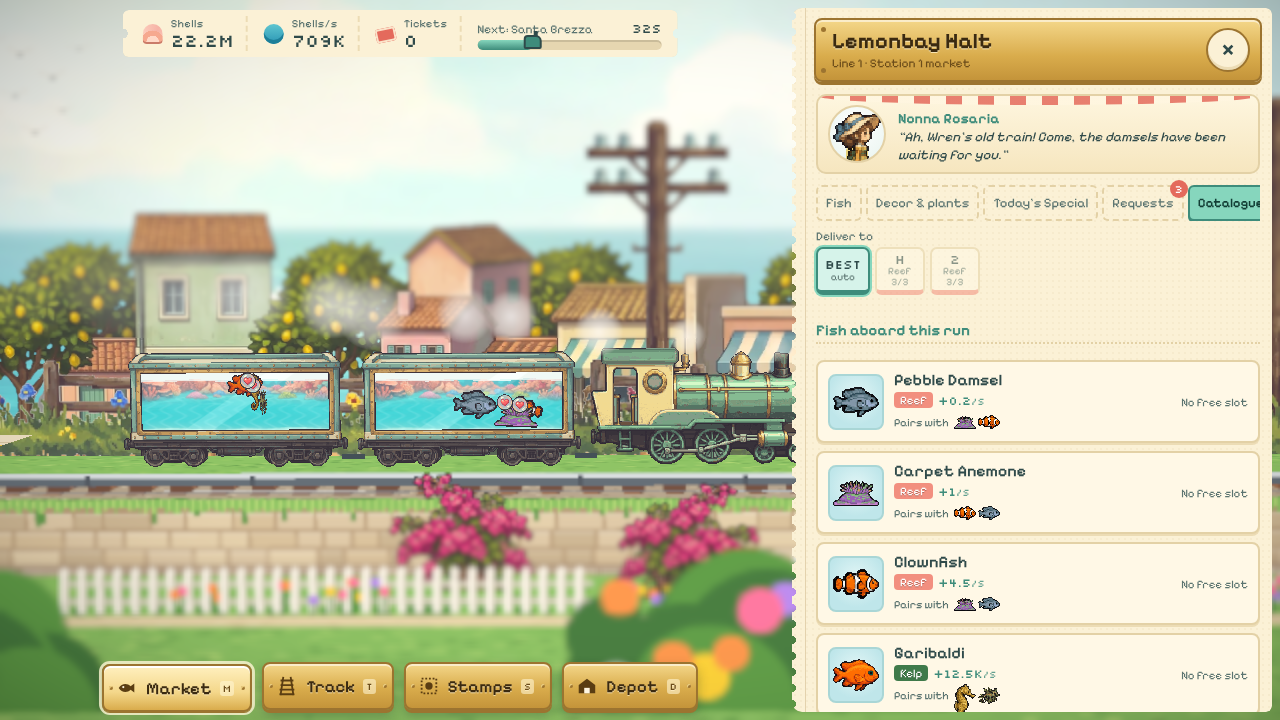
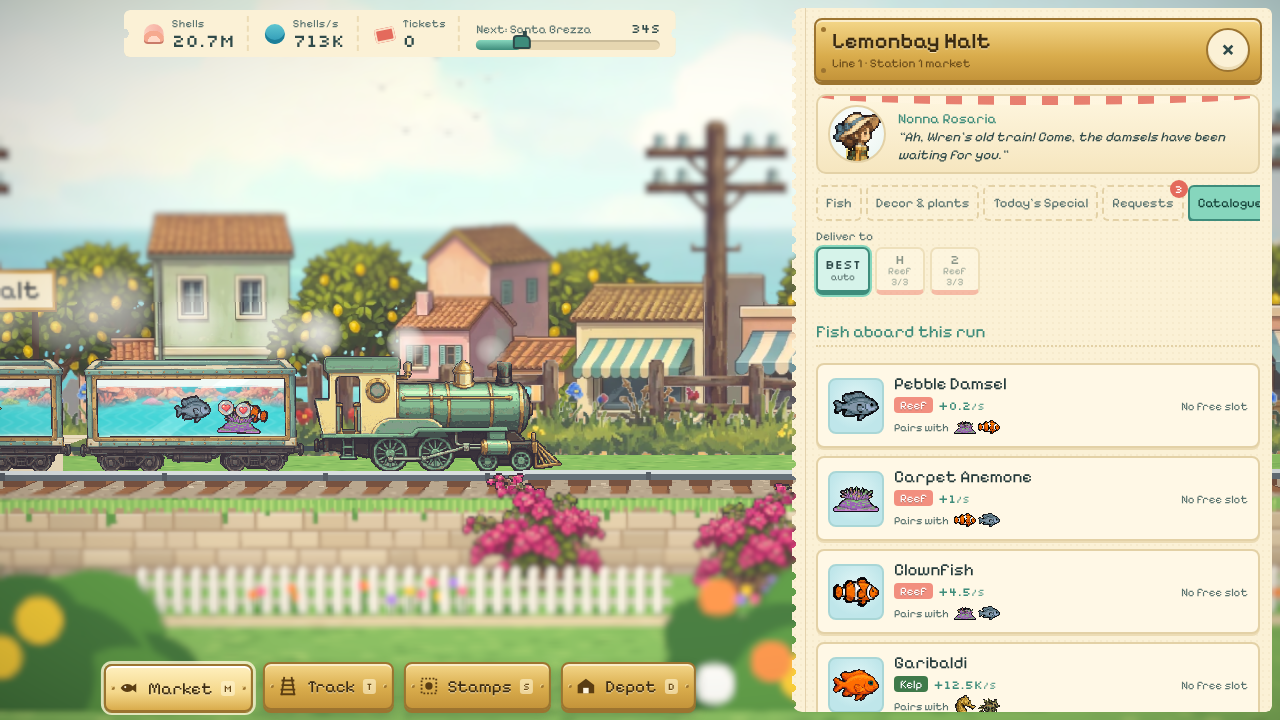
chore(pm): producer bug: train judder → T-25

diff --git a/pm/tickets/T-25.md b/pm/tickets/T-25.md
@@ -1,0 +1,21 @@
+# T-25 — DEV fix: train motion must be perfectly smooth (producer bug)
+**Role:** DEV · **Effort:** high (fix ticket) · **Phase:** 7
+**Owned paths:** `src/render/**` EXCEPT `src/render/ending/**`, `src/render/tank/**`; `src/game/**`; `src/main.ts`; `tests/unit/game/**`
+**Read first:** CLAUDE.md, pm/STATE.md, pm/handoffs/T-13.md, T-19.md, T-22a.md, T-24.md; look at `docs/qa/producer/stutter_frames_16.jpg` (16 consecutive 30 fps frames from the producer's screen recording: the train visibly jumps forward/back relative to the screen frame to frame instead of gliding).
+
+## Diagnose first (write findings in your handoff)
+Likely causes — verify each with measurements, not guesses:
+1. Train world position read from the sim, which only changes every fixed 0.25 s tick → 4 Hz stepping while the camera eases every frame. Fix: render-side interpolation between the previous and current sim tick (`alpha = accumulator / tickDt`), or derive the visual train X from a continuous function of (leg progress + elapsed render time) that is exactly consistent with the sim at tick boundaries.
+2. Camera follow/sway not frame-rate independent (e.g. `lerp(x, target, 0.1)` per frame) or fighting the train (overshoot/oscillation). Use critically damped smoothing with `1 - exp(-k·dt)`, follow the *interpolated* train position, keep sway subtle and slow.
+3. Parallax layers / scenery scroll driven by sim position (stepping) or by dt with spikes; clamp dt (e.g. ≤ 1/20 s) for visuals; use the same interpolated position for every layer.
+4. Wheel rotation / rail-joint rocking / steam must use the same smoothed speed.
+5. Check pixel snapping: if sprites or the camera snap to whole pixels at different times, that also shimmers — snap consistently or not at all for the camera.
+
+## Verify
+- Headless measurement script (you may add `scripts/motion-probe.ts` or do it in a Playwright one-off in your scratch): sample the train's screen X and the camera X every frame for 5 s mid-leg at a fixed 60 fps virtual clock (override `requestAnimationFrame`/`performance.now` in the page) and assert the per-frame screen-space delta of the locomotive is monotonic/smooth (no sign reversals, low jitter: stdev of frame-to-frame delta < 5% of mean during cruise). Also test at 30 fps and with irregular frame times (16/33 ms alternating).
+- Unit test for the interpolation helper.
+- Record a short frame strip (`docs/qa/screens/T-25_strip_*.png`, 12 consecutive frames) before/after and look at it.
+- Arrivals/departures must ease in/out smoothly too (no jump when the sim switches phase).
+
+## Acceptance
+Build + tests green; probe shows smooth motion at 60, 30 and irregular frame rates; strips look smooth.

diff --git a/pm/STATE.md b/pm/STATE.md
@@ -34,6 +34,7 @@
 | T-22c Fix: UI typography, phone, depot guard | DEV | high | done |
 | T-24 Final polish (+ train-on-rails fix) | DEV | medium | done |
 | T-23 Final QA on live build | QA | medium | in progress |
+| T-25 Fix: smooth train motion (producer bug) | DEV | high | in progress |
 | T-16 Painterly set + shiny | ART | medium | done |
 | T-17 Cinematic video clips | ART | medium | done |
 | T-18 Audio + ending + video player | DEV | medium | done (wiring via T-19) |
@@ -45,6 +46,7 @@
 | T-22c Fix: UI typography, phone, depot guard | DEV | high | done |
 | T-24 Final polish (+ train-on-rails fix) | DEV | medium | done |
 | T-23 Final QA on live build | QA | medium | in progress |
+| T-25 Fix: smooth train motion (producer bug) | DEV | high | in progress |
 | T-12 Sprite sheets | ART | medium | done |
 | T-06 Sim meta (sights, depot, offline, save, markets, requests) | DEV | high | done |
 | T-07 Bots + balance.ts | DEV | high | done (1/14 green) |
@@ -68,3 +70,4 @@ See pm/CREDITS.md.
 - Polish backlog: foreground lens garden + white fence are Line-1 style on every Line (use per-Line near art/colors); L3 flamingo/manta hidden behind palms; endless-mode toast after ending not wired.
 - PRODUCER BUG (2026-11-25): train hovers above the rails (wheels on grass strip, rails drawn lower/in front) → FIXED in T-24 (wheel bottom 469.7 px vs rail top 470.4 px; PM verified at 2×).
 - 2026-11-25 ~03:30 UTC: fourth usage-limit stop (T-20, T-22a/b/c). Resumed T-20 + T-22c at 03:40; T-22a/T-22b queued to resume when a slot frees (keep ≤ 2–3 concurrent to stretch the 5-h window).
+- PRODUCER BUG (2026-11-25): train motion not smooth (judder in screen recording) → T-25.
